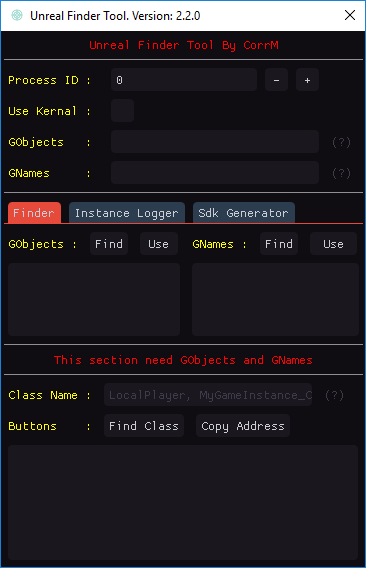
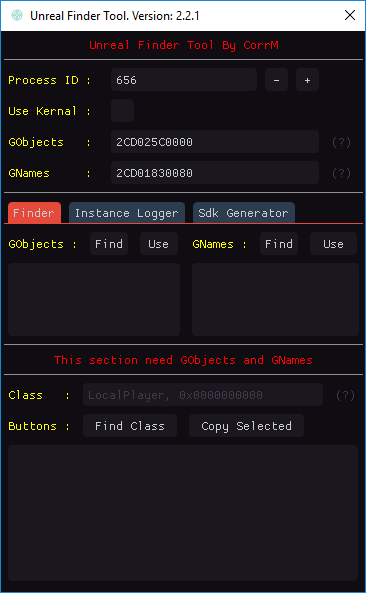
Ready to merge

diff --git a/UnrealFinderTool/UnrealFinderTool.cpp b/UnrealFinderTool/UnrealFinderTool.cpp
@@ -123,17 +123,7 @@ void StartClassFinder()
 		class_find_disabled = true;
 
 		ClassFinder gf;
-		std::vector<uintptr_t> ret = gf.Find(g_objects_address, g_names_address, class_find_buf);
-
-		for (auto v : ret)
-		{
-			std::stringstream ss; ss << std::hex << v;
-
-			std::string tmpUpper = ss.str();
-			std::transform(tmpUpper.begin(), tmpUpper.end(), tmpUpper.begin(), toupper);
-
-			class_listbox_items.push_back(tmpUpper);
-		}
+		class_listbox_items = gf.Find(g_objects_address, g_names_address, class_find_buf);
 
 		class_find_disabled = false;
 		EnabledAll();
@@ -240,7 +230,7 @@ void MainUi(UiWindow& thiz)
 		ui::AlignTextToFramePadding();
 		ui::TextColored(ImVec4(1.0f, 1.0f, 0.0f, 1.0f), "GNames     : "); ui::SameLine();
 		ENABLE_DISABLE_WIDGET(ui::InputText("##GNames", g_names_buf, IM_ARRAYSIZE(g_names_buf), ImGuiInputTextFlags_CharsHexadecimal), g_names_disabled);
-		ui::SameLine(); HelpMarker("What you can put here .?\n- First GNames chunk address.\n\n* Not GNames pointer.\n* It's NOT the address you get from this tool.");
+		ui::SameLine(); HelpMarker("What you can put here .?\n- GNames chunk array address.\n\n* Not GNames pointer.\n* It's NOT the address you get from this tool.");
 		g_names_address = Utils::CharArrayToUintptr(g_names_buf);
 	}
 	
@@ -254,7 +244,7 @@ void MainUi(UiWindow& thiz)
 			{
 				if (cur_tap_id != 1)
 				{
-					thiz.SetSize(380, 578);
+					thiz.SetSize(380, 600);
 					cur_tap_id = 1;
 				}
 
@@ -357,15 +347,17 @@ void MainUi(UiWindow& thiz)
 				{
 					ui::BeginGroup();
 					ui::AlignTextToFramePadding();
-					ui::TextColored(ImVec4(1.0f, 1.0f, 0.0f, 1.0f), "Class Name :"); ui::SameLine();
-					ENABLE_DISABLE_WIDGET(ui::InputTextWithHint("##FindClass", "LocalPlayer, MyGameInstance_C", class_find_buf, IM_ARRAYSIZE(class_find_buf)), class_find_input_disabled);
-					ui::SameLine(); HelpMarker("ClassName Ex :\n- LocalPlayer or ULocalPlayer.\n- MyGameInstance_C or UMyGameInstance_C.\n- PlayerController or APlayerController.");
+					ui::TextColored(ImVec4(1.0f, 1.0f, 0.0f, 1.0f), "Class   :"); ui::SameLine();
+					ui::PushItemWidth(ui::GetWindowWidth() / 1.52f);
+					ENABLE_DISABLE_WIDGET(ui::InputTextWithHint("##FindClass", "LocalPlayer, 0x0000000000", class_find_buf, IM_ARRAYSIZE(class_find_buf)), class_find_input_disabled);
+					ui::PopItemWidth();
+					ui::SameLine(); HelpMarker("What you can put here.?\n- Class Name:\n  - LocalPlayer or ULocalPlayer.\n  - MyGameInstance_C or UMyGameInstance_C.\n  - PlayerController or APlayerController.\n\n- Instance address:\n  - 0x0000000000.\n  - 0000000000.");
 
 					ui::AlignTextToFramePadding();
-					ui::TextColored(ImVec4(1.0f, 1.0f, 0.0f, 1.0f), "Buttons    :"); ui::SameLine();
+					ui::TextColored(ImVec4(1.0f, 1.0f, 0.0f, 1.0f), "Buttons :"); ui::SameLine();
 
 					// Start Finder
-					ENABLE_DISABLE_WIDGET_IF(ui::Button("Find Class"), class_find_disabled,
+					ENABLE_DISABLE_WIDGET_IF(ui::Button(" Find Class "), class_find_disabled,
 					{
 						if (IsReadyToGo())
 							StartClassFinder();
@@ -376,14 +368,14 @@ void MainUi(UiWindow& thiz)
 					ui::SameLine();
 
 					// Copy to clipboard
-					if (ui::Button("Copy Address"))
+					if (ui::Button(" Copy Selected "))
 					{
 						if (size_t(class_listbox_item_current) < class_listbox_items.size())
 							ui::SetClipboardText(class_listbox_items[class_listbox_item_current].c_str());
 					}
 
 					ui::PushItemWidth(ui::GetWindowSize().x - 15);
-					ui::ListBox("##Class_listbox", &class_listbox_item_current, VectorGetter, static_cast<void*>(&class_listbox_items), static_cast<int>(class_listbox_items.size()), 5);
+					ui::ListBox("##Class_listbox", &class_listbox_item_current, VectorGetter, static_cast<void*>(&class_listbox_items), static_cast<int>(class_listbox_items.size()), 6);
 					ui::PopItemWidth();
 					ui::EndGroup();
 				}

diff --git a/UnrealFinderTool/ClassFinder.cpp b/UnrealFinderTool/ClassFinder.cpp
@@ -1,10 +1,11 @@
 #include "pch.h"
 #include "NamesStore.h"
 #include "ClassFinder.h"
+#include <sstream>
 
-std::vector<uintptr_t> ClassFinder::Find(const uintptr_t gObjAddress, const uintptr_t gNamesAddress, const std::string& objectType)
+std::vector<std::string> ClassFinder::Find(const uintptr_t gObjAddress, const uintptr_t gNamesAddress, const std::string& objectType)
 {
-	std::vector<uintptr_t> ret;
+	std::vector<std::string> ret;
 
 	// Dump GNames
 	NamesStore::Initialize(gNamesAddress, false);
@@ -12,8 +13,38 @@ std::vector<uintptr_t> ClassFinder::Find(const uintptr_t gObjAddress, const uint
 	// Dump GObjects
 	ObjectsStore::Initialize(gObjAddress, false);
 
-	for (const UEObject& var : FindThatObject(objectType))
-		ret.push_back(var.GetAddress());
+	std::string formattedStr = objectType;
+
+	if (formattedStr._Starts_with("0x"))
+		formattedStr.erase(0, 2);
+
+	if (Utils::IsHexNumber(formattedStr))
+	{
+		auto matches = FindThatObjectByAddress(formattedStr, false);
+		std::for_each(matches.begin(), matches.end(), [&ret](const UEObject& obj)
+		{
+			ret.push_back(obj.GetInstanceClassName());
+		});
+	}
+	else
+	{
+		auto matches = FindThatObject(formattedStr, false);
+		std::stringstream ss;
+		std::for_each(matches.begin(), matches.end(), [&](const UEObject& obj)
+		{
+			// Get address, convert to hex string, change chars to upper
+			ss << std::hex << obj.GetAddress();
+			std::string tmpUpper = ss.str();
+			std::transform(tmpUpper.begin(), tmpUpper.end(), tmpUpper.begin(), toupper);
+			tmpUpper = "0x" + tmpUpper + " [ " + obj.GetInstanceClassName() + " ]";
+
+			// Clear
+			ss.str("");
+			ss.clear();
+
+			ret.push_back(tmpUpper);
+		});
+	}
 
 	return ret;
 }
@@ -32,6 +63,23 @@ std::vector<UEObject> ClassFinder::FindThatObject(const std::string& typeName, c
 			if (firstOnly) break;
 		}
 	}
+	return ret;
+}
 
+std::vector<UEObject> ClassFinder::FindThatObjectByAddress(const std::string& typeName, const bool firstOnly)
+{
+	std::vector<UEObject> ret;
+	uintptr_t instanceAddress = Utils::CharArrayToUintptr(typeName);
+
+	for (size_t i = 0; i < ObjectsStore().GetObjectsNum(); ++i)
+	{
+		const auto& object = ObjectsStore().GetByIndex(i);
+
+		if (object.GetAddress() == instanceAddress)
+		{
+			ret.push_back(object);
+			if (firstOnly) break;
+		}
+	}
 	return ret;
 }

diff --git a/UnrealFinderTool/ImControl.h b/UnrealFinderTool/ImControl.h
@@ -7,7 +7,7 @@
 
 // => Main Options Section
 inline bool process_id_disabled = false;
-inline int process_id = 83252;
+inline int process_id;
 
 inline bool use_kernal_disabled = false;
 inline bool use_kernal;
@@ -23,19 +23,19 @@ inline int cur_tap_id = 0;
 // => GObjects, GNames, Class
 inline bool g_objects_find_disabled = false;
 inline uintptr_t g_objects_address;
-inline char g_objects_buf[17] = "270E4F60000";// { 0 };
+inline char g_objects_buf[17] = { 0 };
 inline std::vector<std::string> g_obj_listbox_items;
 inline int g_obj_listbox_item_current = 0;
 
 inline bool g_names_find_disabled = false;
 inline uintptr_t g_names_address;
-inline char g_names_buf[17] = "270E2680080";// { 0 };
+inline char g_names_buf[17] = { 0 };
 inline std::vector<std::string> g_names_listbox_items;
 inline int g_names_listbox_item_current = 0;
 
 inline bool class_find_disabled = false;
 inline bool class_find_input_disabled = false;
-inline char class_find_buf[30] = { 0 };
+inline char class_find_buf[90] = { 0 };
 inline std::vector<std::string> class_listbox_items;
 inline int class_listbox_item_current = 0;
 // => GObjects, GNames, Class

diff --git a/UnrealFinderTool/SdkGen/Engine/UE4/GenericTypes.cpp b/UnrealFinderTool/SdkGen/Engine/UE4/GenericTypes.cpp
@@ -20,12 +20,6 @@ bool UEObject::IsA(const std::string& typeName) const
 	return false;
 }
 
-std::string UEObject::TypeName()
-{
-	static std::string ret = "UObject";
-	return ret;
-}
-
 uintptr_t UEObject::GetAddress() const
 {
 	return Object.ObjAddress;
@@ -61,6 +55,16 @@ std::string UEObject::GetName() const
 
 	objName = name.substr(pos + 1);
 	return objName;
+}
+
+std::string UEObject::GetInstanceClassName() const
+{
+	if (!IsValid()) return "";
+
+	bool find;
+	auto& obj = ObjectsStore().GetByAddress(GetAddress(), find);
+
+	return find ? obj.GetClass().GetNameCPP() : "";
 }
 
 std::string UEObject::GetFullName() const
@@ -178,6 +182,12 @@ UEObject& UEObject::GetPackageObject() const
 	}
 
 	return ObjectsStore().GetByAddress(packageAddress);
+}
+
+std::string UEObject::TypeName()
+{
+	static std::string ret = "UObject";
+	return ret;
 }
 
 UEClass UEObject::StaticClass()

diff --git a/UnrealFinderTool/SdkGen/Engine/Package.cpp b/UnrealFinderTool/SdkGen/Engine/Package.cpp
@@ -519,7 +519,7 @@ void Package::GenerateClass(const UEClass& classObj)
 	Classes.emplace_back(std::move(c));
 }
 
-Package::Member Package::CreatePadding(size_t id, size_t offset, size_t size, std::string reason)
+Package::Member Package::CreatePadding(const size_t id, const size_t offset, const size_t size, std::string reason)
 {
 	Member ss;
 	ss.Name = tfm::format("UnknownData%02d[0x%X]", id, size);
@@ -531,7 +531,7 @@ Package::Member Package::CreatePadding(size_t id, size_t offset, size_t size, st
 	return ss;
 }
 
-Package::Member Package::CreateBitfieldPadding(size_t id, size_t offset, std::string type, size_t bits)
+Package::Member Package::CreateBitfieldPadding(const size_t id, const size_t offset, std::string type, const size_t bits)
 {
 	Member ss;
 	ss.Name = tfm::format("UnknownData%02d : %d", id, bits);

diff --git a/UnrealFinderTool/SdkGenerator.cpp b/UnrealFinderTool/SdkGenerator.cpp
@@ -1,5 +1,4 @@
 #include "pch.h"
-#include "Memory.h"
 #include "cpplinq.hpp"
 #include "NameValidator.h"
 #include "PrintHelper.h"
@@ -8,6 +7,7 @@
 #include "NamesStore.h"
 #include "SdkGenerator.h"
 
+#include <inttypes.h>
 #include <fstream>
 #include <chrono>
 #include <bitset>
@@ -122,7 +122,7 @@ void SdkGenerator::Dump(const fs::path& path)
 		for (const auto& obj : ObjectsStore())
 		{
 			if (obj.IsValid())
-				tfm::format(o, "[%06i] %-100s 0x%P\n", obj.GetIndex(), obj.GetFullName(), obj.GetAddress());
+				tfm::format(o, "[%06i] %-100s 0x%" PRIxPTR "\n", obj.GetIndex(), obj.GetFullName(), obj.GetAddress());
 		}
 	}
 }

diff --git a/UnrealFinderTool/ClassFinder.h b/UnrealFinderTool/ClassFinder.h
@@ -4,8 +4,9 @@
 class ClassFinder
 {
 public:
-	std::vector<uintptr_t> Find(uintptr_t gObjAddress, uintptr_t gNamesAddress, const std::string& objectType);
+	std::vector<std::string> Find(uintptr_t gObjAddress, uintptr_t gNamesAddress, const std::string& objectType);
 
 private:
 	static std::vector<UEObject> FindThatObject(const std::string& typeName, bool firstOnly = false);
+	static std::vector<UEObject> FindThatObjectByAddress(const std::string& typeName, bool firstOnly);
 };

diff --git a/UnrealFinderTool/SdkGen/Engine/ObjectsStore.cpp b/UnrealFinderTool/SdkGen/Engine/ObjectsStore.cpp
@@ -205,6 +205,11 @@ UEObject& ObjectsStore::GetByAddress(const uintptr_t objAddress) const
 	return *GObjObjects.Find(objAddress);
 }
 
+UEObject& ObjectsStore::GetByAddress(const uintptr_t objAddress, bool& success) const
+{
+	return *GObjObjects.Find(objAddress, success);
+}
+
 UEClass ObjectsStore::FindClass(const std::string& name) const
 {
 	auto it = std::find_if(this->begin(), this->end(), [&](const UEObject& obj) -> bool { return obj.GetFullName() == name; });

diff --git a/UnrealFinderTool/Utils.cpp b/UnrealFinderTool/Utils.cpp
@@ -139,6 +139,11 @@ bool Utils::IsNumber(const std::string& s)
 		s.end(), [](const char c) { return !std::isdigit(c); }) == s.end();
 }
 
+bool Utils::IsHexNumber(const std::string& s)
+{
+	return std::all_of(s.begin(), s.end(), [](const unsigned char c) { return std::isxdigit(c); });
+}
+
 void Utils::FixStructPointer(void* structBase, const int varOffset, const int structSize)
 {
 	// Check next 4byte of pointer equal 0 in local tool memory

diff --git a/UnrealFinderTool/SdkGen/Engine/UE4/GenericTypes.h b/UnrealFinderTool/SdkGen/Engine/UE4/GenericTypes.h
@@ -29,6 +29,7 @@ public:
 	size_t GetIndex() const;
 
 	std::string GetName() const;
+	std::string GetInstanceClassName() const;
 	std::string GetFullName() const;
 	std::string GetNameCPP() const;
 
@@ -47,6 +48,7 @@ public:
 
 	// Check type in target process (Remote check type)
 	bool IsA(const std::string& typeName) const;
+
 
 	static std::string TypeName();
 

diff --git a/UnrealFinderTool/Utils.h b/UnrealFinderTool/Utils.h
@@ -50,6 +50,7 @@ public:
 	static int64_t BufToInteger64(void* buffer);
 	static uintptr_t CharArrayToUintptr(std::string str);
 	static bool IsNumber(const std::string& s);
+	static bool IsHexNumber(const std::string& s);
 	// Return size of pointer in target game
 	static int PointerSize();
 	// Check valid address in remote process

diff --git a/UnrealFinderTool/SdkGen/Engine/ObjectsStore.h b/UnrealFinderTool/SdkGen/Engine/ObjectsStore.h
@@ -61,6 +61,7 @@ public:
 	/// <param name="objAddress">The address of object.</param>
 	/// <returns>The object.</returns>
 	UEObject& GetByAddress(uintptr_t objAddress) const;
+	UEObject& GetByAddress(const uintptr_t objAddress, bool& success) const;
 
 	/// <summary>
 	/// Searches for the first class with the given name.
